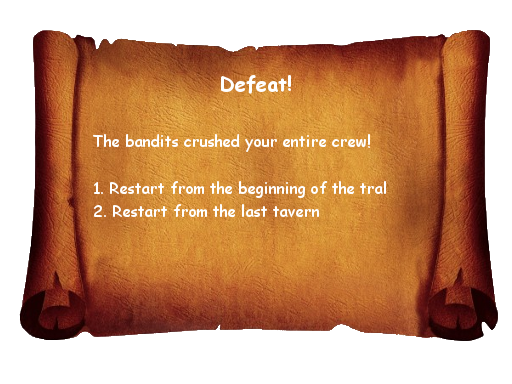
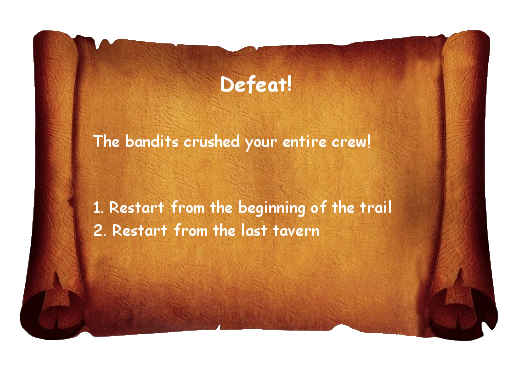
fixed typos and added dead and sick faces

Changed region(s): [[0.1875, 0.4688, 0.7812, 0.625]]

diff --git a/Lab1Template/source/hud.cpp b/Lab1Template/source/hud.cpp
@@ -73,6 +73,15 @@ void HUD::initHUD(TextureLoader *texLoader)
   // face texture load
   bmp = tdogl::Bitmap::bitmapFromFile("assets/faceBlank.png");
   face = new tdogl::pngTexture(bmp, GL_LINEAR, GL_REPEAT);
+
+  // sickFace texture load
+  bmp = tdogl::Bitmap::bitmapFromFile("assets/sickFaceBlank.png");
+  sickFace = new tdogl::pngTexture(bmp, GL_LINEAR, GL_REPEAT);
+
+  // sickFace texture load
+  bmp = tdogl::Bitmap::bitmapFromFile("assets/deadFaceBlank.png");
+  deadFace = new tdogl::pngTexture(bmp, GL_LINEAR, GL_REPEAT);
+
   // heart texture load
   bmp = tdogl::Bitmap::bitmapFromFile("assets/heart2Plane.png");
   heart = new tdogl::pngTexture(bmp, GL_LINEAR, GL_REPEAT);
@@ -321,7 +330,18 @@ for(mercOffset; mercOffset < (currentPage * 4) && mercOffset < man -> mercs.size
 	_guiMVP = trans * _guiMVP;
 	glUniformMatrix4fv(h_ModelMatrix, 1, GL_FALSE, glm::value_ptr(_guiMVP));
 
-	enableBuff(posBufObjFace, face->object(), textBuffSideHud);
+  if(tempMerc.currHealth == 0)
+  {
+    enableBuff(posBufObjFace, deadFace->object(), textBuffSideHud);
+  }
+  else if(tempMerc.currHappiness == 0)
+  {
+    enableBuff(posBufObjFace, sickFace->object(), textBuffSideHud);
+  }
+  else
+  {
+    enableBuff(posBufObjFace, face->object(), textBuffSideHud);
+  }
 	glDrawElements(GL_TRIANGLES, 6, GL_UNSIGNED_SHORT, 0); // draw first object
 	disableBuff();
 

diff --git a/Lab1Template/source/menu.cpp b/Lab1Template/source/menu.cpp
@@ -181,9 +181,9 @@ void Menu::drawMenu()
 	else if(menuType == 9)
 	{
 		// fight won gold beer food
-		printText2D(data[0].c_str(), 299, 329, 16);
-		printText2D(data[1].c_str(), 383, 329, 16);
-		printText2D(data[2].c_str(), 496, 329, 16);
+		printText2D(data[0].c_str(), 310, 329, 17);
+		printText2D(data[1].c_str(), 391, 329, 17);
+		printText2D(data[2].c_str(), 504, 329, 17);
 		// good
 	}
 	else if(menuType == 10)

diff --git a/Lab1Template/source/hud.h b/Lab1Template/source/hud.h
@@ -81,6 +81,8 @@ class HUD
 		tdogl::pngTexture* topHud;
 		tdogl::pngTexture* sideHud;
 		tdogl::pngTexture* face;
+		tdogl::pngTexture* sickFace;
+		tdogl::pngTexture* deadFace;
 		tdogl::pngTexture* heart;
 		tdogl::pngTexture* swords;
 };
